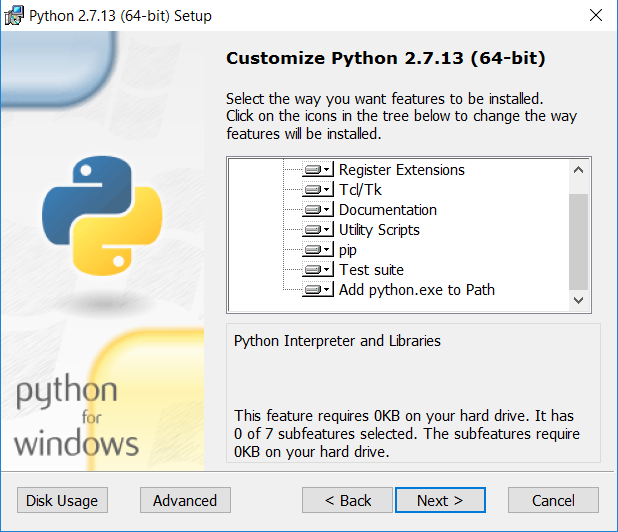
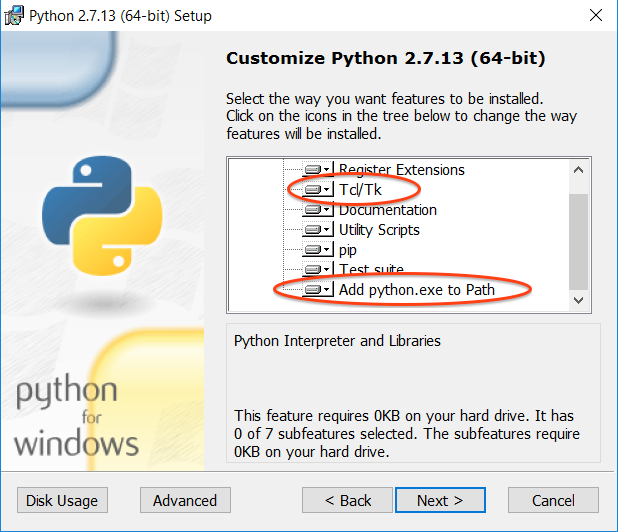
Update installation procedure

Changed region(s): [[0.4304, 0.5113, 0.8608, 0.6015], [0.4612, 0.3008, 0.6764, 0.391]]

diff --git a/docs/install.rst b/docs/install.rst
@@ -103,7 +103,12 @@ Follow the installation process pointing out this two requirements to let myVCF 
 
 .. warning:: Please download the **Python2.7** package **NOT** Python3.x
 
-- Please select the option **Add Python to PATH** during installation. This will allow the **myVCF_GUI.py** launcher to be functional with no errors.
+- Please verify that the options:
+1. **Add Python to PATH**
+2. **Tcl/Tk**
+are selected during the installation step.
+
+This will allow the **myVCF_GUI.py** launcher to be functional with no errors.
 
 |python_path|
 
